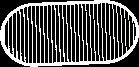
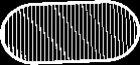
Fixed the problem that was causing the program to crash in last commit. The problem was that all the threshed symbols had diffrent sizes so I changed all the sizes to a fix size (The avg width and height). Now before I check the diff i resize the symbol to that fixed size.

diff --git a/src/sample/Controller.java b/src/sample/Controller.java
@@ -42,6 +42,9 @@ public class Controller {
     Map<String, Mat> threshedSymbols;
     List<MatOfPoint> cardContours = new ArrayList<>();
 
+    final int SYMBOL_WIDTH = 140;
+    final int SYMBOL_HEIGHT = 65;
+
 
     public void initialize() throws IOException {
         threshedSymbols = new HashMap<String, Mat>();
@@ -57,7 +60,7 @@ public class Controller {
         for (File symbol :
                 symbols) {
             threshedSymbols.put(symbol.getName().split("[.]")[0]
-                    ,Imgcodecs.imread(flipSlash(symbol.getAbsolutePath())));
+                    ,Imgcodecs.imread(flipSlash(symbol.getAbsolutePath()),Imgcodecs.IMREAD_GRAYSCALE));
         }
 
 
@@ -155,7 +158,7 @@ public class Controller {
         Point center;
         Mat wrap;
         Card finalCard = new Card(cardContour);
-        List<MatOfPoint> symbolsInCard;
+        List<Mat> symbolsInCard;
 
         cardContour.convertTo(cardContour2f,CvType.CV_32F);
         peri = Imgproc.arcLength(cardContour2f,true);
@@ -195,7 +198,7 @@ public class Controller {
      * @param symbol
      * @return
      */
-    public int[] matchCard(MatOfPoint symbol){
+    public int[] matchCard(Mat symbol){
         /**
          * The symbol with the least diff is returned as the card's symbol.
          */
@@ -205,6 +208,8 @@ public class Controller {
         Mat dst = new Mat();
         int[] results= new int[2];
 
+
+        Imgproc.resize(symbol, symbol,new Size(SYMBOL_WIDTH,SYMBOL_HEIGHT));
         for (Map.Entry<String, Mat> entry :
                 threshedSymbols.entrySet()) {
             Core.absdiff(symbol,entry.getValue(),dst);
@@ -242,31 +247,31 @@ public class Controller {
      * @param wrap
      * @return
      */
-    public List<MatOfPoint> findSymbolsInCard (Mat wrap){
-        Mat thereshedCard = new Mat();
+    public List<Mat> findSymbolsInCard (Mat wrap){
+        Mat threshedCard = new Mat();
         Mat greyCard =new Mat();
         Imgproc.cvtColor(wrap,greyCard,Imgproc.COLOR_BGR2GRAY);
         double bkglevel = Math.max(wrap.get(10,200/2)[0],wrap.get(290,200/2)[0]);
 
         /**May use this method in the future.
-        *Imgproc.threshold(cardImage,thereshedCard,1,255,Imgproc.THRESH_OTSU|Imgproc.THRESH_BINARY_INV);
+        *Imgproc.threshold(cardImage,threshedCard,1,255,Imgproc.THRESH_OTSU|Imgproc.THRESH_BINARY_INV);
         **/
-        Imgproc.threshold(greyCard,thereshedCard,bkglevel-60,255,Imgproc.THRESH_BINARY_INV);
+        Imgproc.threshold(greyCard,threshedCard,bkglevel-60,255,Imgproc.THRESH_BINARY_INV);
 
         List<MatOfPoint> contoursInCard = new ArrayList();
-        List<MatOfPoint> symbolsInCard = new ArrayList<>();
+        List<Mat> symbolsInCard = new ArrayList<>();
         Mat hierInCard = new Mat();
-        Imgproc.findContours(thereshedCard,contoursInCard,hierInCard,Imgproc.RETR_TREE,Imgproc.CHAIN_APPROX_SIMPLE);
+        Imgproc.findContours(threshedCard,contoursInCard,hierInCard,Imgproc.RETR_TREE,Imgproc.CHAIN_APPROX_SIMPLE);
         for (int i = 0;i<contoursInCard.size();i++) {
             Rect boundingRect=Imgproc.boundingRect(contoursInCard.get(i));
 
             //As of right now a symbol is added if his contour has no parent and his width is larger than
             //half the card's width.
             if (hierInCard.get(0, i)[3] == -1 && boundingRect.width>=200/2)
-                symbolsInCard.add(contoursInCard.get(i));
+                symbolsInCard.add(new Mat(threshedCard,boundingRect));
         }
         System.out.println("symbols in card: " + symbolsInCard.size());
-        rightImage.setImage(mat2Image(thereshedCard));
+        rightImage.setImage(mat2Image(threshedCard));
 
         return symbolsInCard;
 
